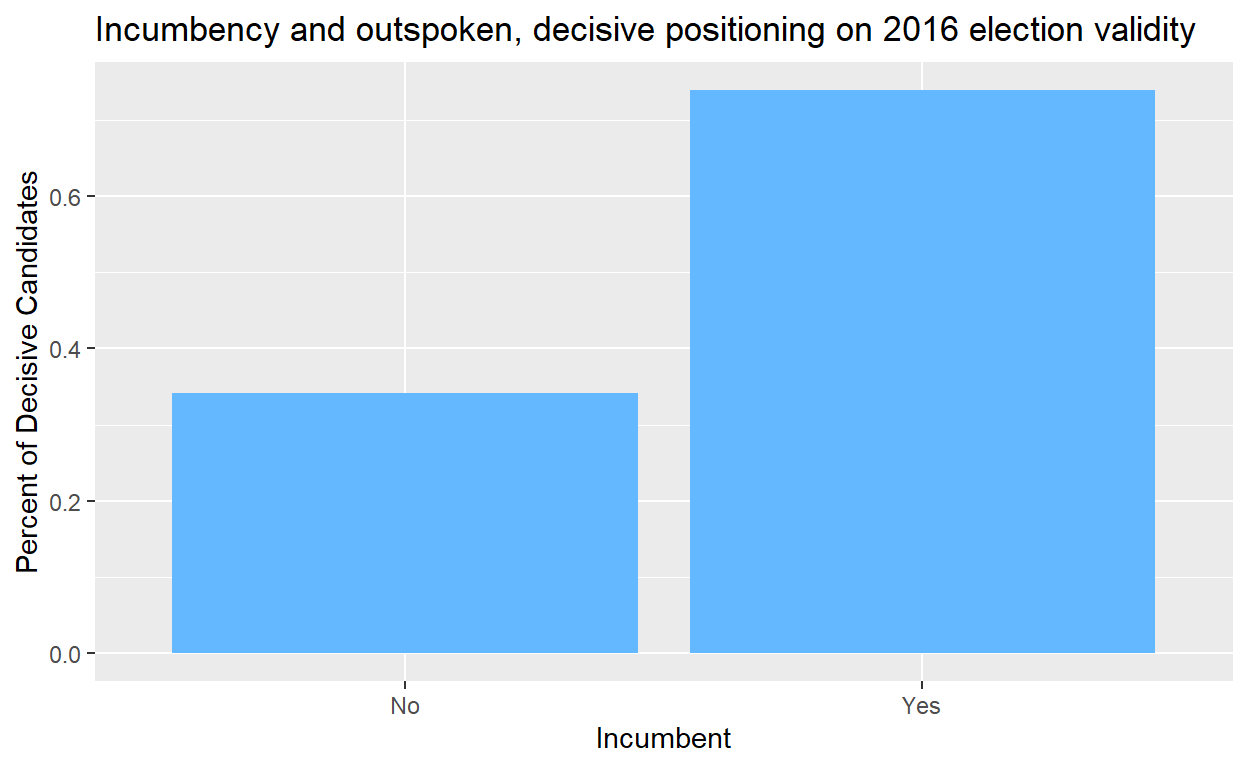
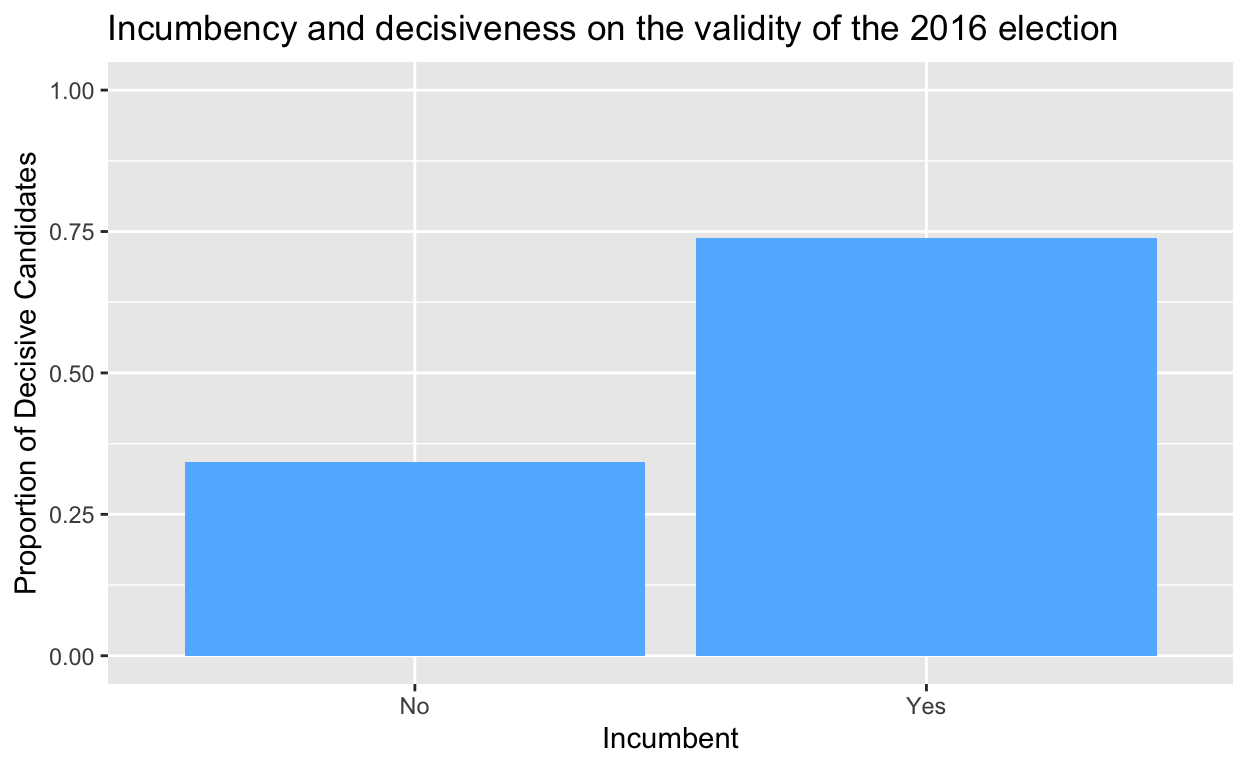
knitted

diff --git a/index.html b/index.html
@@ -115,7 +115,7 @@ code span.wa { color: #5e5e5e; font-style: italic; } /* Warning */
   <!--/radix_placeholder_rmarkdown_metadata-->
   
   <script type="text/json" id="radix-resource-manifest">
-  {"type":"character","attributes":{},"value":["fivethirtyeight_election_deniers.csv","index_files/anchor-4.2.2/anchor.min.js","index_files/bowser-1.9.3/bowser.min.js","index_files/distill-2.2.21/template.v2.js","index_files/figure-html5/unnamed-chunk-1-1.png","index_files/header-attrs-2.17/header-attrs.js","index_files/header-attrs-2.24/header-attrs.js","index_files/jquery-3.6.0/jquery-3.6.0.js","index_files/jquery-3.6.0/jquery-3.6.0.min.js","index_files/jquery-3.6.0/jquery-3.6.0.min.map","index_files/popper-2.6.0/popper.min.js","index_files/tippy-6.2.7/tippy-bundle.umd.min.js","index_files/tippy-6.2.7/tippy-light-border.css","index_files/tippy-6.2.7/tippy.css","index_files/tippy-6.2.7/tippy.umd.min.js","index_files/webcomponents-2.0.0/webcomponents.js"]}
+  {"type":"character","attributes":{},"value":["fivethirtyeight_election_deniers.csv","index_files/anchor-4.2.2/anchor.min.js","index_files/bowser-1.9.3/bowser.min.js","index_files/distill-2.2.21/template.v2.js","index_files/figure-html5/unnamed-chunk-1-1.png","index_files/figure-html5/unnamed-chunk-4-1.png","index_files/header-attrs-2.17/header-attrs.js","index_files/header-attrs-2.24/header-attrs.js","index_files/jquery-3.6.0/jquery-3.6.0.js","index_files/jquery-3.6.0/jquery-3.6.0.min.js","index_files/jquery-3.6.0/jquery-3.6.0.min.map","index_files/popper-2.6.0/popper.min.js","index_files/tippy-6.2.7/tippy-bundle.umd.min.js","index_files/tippy-6.2.7/tippy-light-border.css","index_files/tippy-6.2.7/tippy.css","index_files/tippy-6.2.7/tippy.umd.min.js","index_files/webcomponents-2.0.0/webcomponents.js"]}
   </script>
   <!--radix_placeholder_navigation_in_header-->
   <!--/radix_placeholder_navigation_in_header-->
@@ -227,9 +227,21 @@ code span.wa { color: #5e5e5e; font-style: italic; } /* Warning */
     display: none !important;
   }
 
+  hr.section-separator {
+    border: none;
+    border-top: 1px solid rgba(0, 0, 0, 0.1);
+    margin: 0px;
+  }
+
+
+  d-byline {
+    border-top: none;
+  }
+
   d-article {
     padding-top: 2.5rem;
     padding-bottom: 30px;
+    border-top: none;
   }
 
   d-appendix {
@@ -324,6 +336,11 @@ code span.wa { color: #5e5e5e; font-style: italic; } /* Warning */
   d-article div.sourceCode pre {
     padding-left: 18px;
     font-size: 14px;
+  }
+
+  /* tweak for Pandoc numbered line within distill */
+  d-article pre.numberSource code > span {
+      left: -2em;
   }
 
   d-article pre {
@@ -1085,6 +1102,12 @@ code span.wa { color: #5e5e5e; font-style: italic; } /* Warning */
     // create d-title
     $('.d-title').changeElementType('d-title');
 
+    // separator
+    var separator = '<hr class="section-separator" style="clear: both"/>';
+    // prepend separator above appendix
+    $('.d-byline').before(separator);
+    $('.d-article').before(separator);
+
     // create d-byline
     var byline = $('<d-byline></d-byline>');
     $('.d-byline').replaceWith(byline);
@@ -1162,8 +1185,9 @@ code span.wa { color: #5e5e5e; font-style: italic; } /* Warning */
     $('.distill-force-highlighting-css').parent().remove();
 
     // remove empty line numbers inserted by pandoc when using a
-    // custom syntax highlighting theme
-    $('code.sourceCode a:empty').remove();
+    // custom syntax highlighting theme, except when numbering line
+    // in code chunk
+    $('pre:not(.numberLines) code.sourceCode a:empty').remove();
 
     // load distill framework
     load_distill_framework();
@@ -1189,12 +1213,13 @@ code span.wa { color: #5e5e5e; font-style: italic; } /* Warning */
       // add orcid ids
       $('.authors-affiliations').find('.author').each(function(i, el) {
         var orcid_id = front_matter.authors[i].orcidID;
+        var author_name = front_matter.authors[i].author
         if (orcid_id) {
           var a = $('<a></a>');
           a.attr('href', 'https://orcid.org/' + orcid_id);
           var img = $('<img></img>');
           img.addClass('orcid-id');
-          img.attr('alt', 'ORCID ID');
+          img.attr('alt', author_name ? 'ORCID ID for ' + author_name : 'ORCID ID');
[1 lines of base64/hex data omitted]
           a.append(img);
           $(this).append(a);
@@ -1472,7 +1497,7 @@ code span.wa { color: #5e5e5e; font-style: italic; } /* Warning */
   </script>
 
   <!--/radix_placeholder_distill-->
-  <script src="index_files/header-attrs-2.24/header-attrs.js"></script>
+  <script src="index_files/header-attrs-2.25/header-attrs.js"></script>
   <script src="index_files/jquery-3.6.0/jquery-3.6.0.min.js"></script>
   <script src="index_files/popper-2.6.0/popper.min.js"></script>
   <link href="index_files/tippy-6.2.7/tippy.css" rel="stylesheet" />
@@ -1504,6 +1529,7 @@ code span.wa { color: #5e5e5e; font-style: italic; } /* Warning */
 
 <div class="d-title">
 <h1>Gov 50 Final Project</h1>
+
 <!--radix_placeholder_categories-->
 <!--/radix_placeholder_categories-->
 <p>My final project</p>
@@ -1521,7 +1547,7 @@ code span.wa { color: #5e5e5e; font-style: italic; } /* Warning */
 <p>I am interested in exploring data related to repression indexes in Singapore. I am taking a class on authoritarianism where I am tasked with conducting a study on Lee Kuan Yew’s dictatorship and repression styles. There are several ways to measure repression, such as V-Dem, Polity, or via a binary scale. I would like to compile this data and display it visually using R.</p>
 <h2 id="proposal">Proposal</h2>
 <p>Does incumbency impact a republican representative’s likelihood of outwardly denying the 2020 Election results? In this study, I plan determine if there is a correlation between the incumbency of congressional republican representatives and if they deny the 2020 election. I hypothesis that being an incumbent increases the candidates feelings of job security, and are thus more likely to express potentially polarizing view points, such as denying the election. Thus, I expect to find a positive correlation between incumbency on the congressional candidate and election denial.</p>
-<p>To evaluate this data, I plan to filter the data by office to ensure that I am only evaluating candidates for the House of Representatives. I will also filter by party because only republican candidates denied the election. Eliminating democrats from this study allows me to observe a more specific and relevant portion of the data. I will then ensure that the numbers of representatives from each state are proportionately represented. Lastly, I plot the data to determine if the proportion of incumbents who deny the election is greater than the proportion of non-incumbents who don’t outwardly deny the election.</p>
+<p>To begin this project, I plan to filter the data by office to ensure that I am only evaluating candidates for the House of Representatives. I will also filter by party to ensure that I am only evaluating republican candidates. Eliminating democrats from this study allows me to observe a more specific and relevant portion of the data. Lastly, I plot the data to determine if the proportion of incumbents who deny the election is greater than the proportion of non-incumbents who don’t outwardly deny the election.</p>
 <div class="layout-chunk" data-layout="l-body">
 <div class="sourceCode">
 <pre class="sourceCode r"><code class="sourceCode r"><span><span class='kw'><a href='https://rdrr.io/r/base/library.html'>library</a></span><span class='op'>(</span><span class='va'><a href='https://ggplot2.tidyverse.org'>ggplot2</a></span><span class='op'>)</span></span>
@@ -1540,19 +1566,19 @@ code span.wa { color: #5e5e5e; font-style: italic; } /* Warning */
 <span></span>
 <span><span class='va'>e3</span> <span class='op'>&lt;-</span> <span class='va'>e2</span><span class='op'>|&gt;</span>  </span>
 <span>  <span class='fu'><a href='https://dplyr.tidyverse.org/reference/group_by.html'>group_by</a></span><span class='op'>(</span><span class='va'>Incumbent</span><span class='op'>)</span> <span class='op'>|&gt;</span></span>
-<span>  <span class='fu'><a href='https://dplyr.tidyverse.org/reference/summarise.html'>summarize</a></span><span class='op'>(</span>mean <span class='op'>=</span> <span class='fu'><a href='https://rdrr.io/r/base/mean.html'>mean</a></span><span class='op'>(</span><span class='va'>definitive_stance</span><span class='op'>)</span><span class='op'>)</span> <span class='op'>|&gt;</span></span>
-<span>  <span class='fu'><a href='https://ggplot2.tidyverse.org/reference/ggplot.html'>ggplot</a></span><span class='op'>(</span><span class='fu'><a href='https://ggplot2.tidyverse.org/reference/aes.html'>aes</a></span><span class='op'>(</span>x <span class='op'>=</span> <span class='va'>Incumbent</span>, y <span class='op'>=</span> <span class='va'>mean</span><span class='op'>)</span><span class='op'>)</span> <span class='op'>+</span> <span class='fu'><a href='https://ggplot2.tidyverse.org/reference/geom_bar.html'>geom_col</a></span><span class='op'>(</span>ylim<span class='op'>=</span><span class='fu'><a href='https://rdrr.io/r/base/c.html'>c</a></span><span class='op'>(</span><span class='fl'>0</span>,<span class='fl'>2</span><span class='op'>)</span>, fill <span class='op'>=</span> <span class='st'>"steelblue1"</span><span class='op'>)</span> <span class='op'>+</span> <span class='fu'><a href='https://ggplot2.tidyverse.org/reference/labs.html'>labs</a></span><span class='op'>(</span></span>
+<span>  <span class='fu'><a href='https://dplyr.tidyverse.org/reference/summarise.html'>summarize</a></span><span class='op'>(</span>stance_mean <span class='op'>=</span> <span class='fu'><a href='https://rdrr.io/r/base/mean.html'>mean</a></span><span class='op'>(</span><span class='va'>definitive_stance</span><span class='op'>)</span><span class='op'>)</span> <span class='op'>|&gt;</span></span>
+<span>  <span class='fu'><a href='https://ggplot2.tidyverse.org/reference/ggplot.html'>ggplot</a></span><span class='op'>(</span><span class='fu'><a href='https://ggplot2.tidyverse.org/reference/aes.html'>aes</a></span><span class='op'>(</span>x <span class='op'>=</span> <span class='va'>Incumbent</span>, y <span class='op'>=</span> <span class='va'>stance_mean</span><span class='op'>)</span><span class='op'>)</span> <span class='op'>+</span> <span class='fu'><a href='https://ggplot2.tidyverse.org/reference/geom_bar.html'>geom_col</a></span><span class='op'>(</span>fill <span class='op'>=</span> <span class='st'>"steelblue1"</span><span class='op'>)</span> <span class='op'>+</span> <span class='fu'><a href='https://ggplot2.tidyverse.org/reference/labs.html'>labs</a></span><span class='op'>(</span></span>
 <span>    x <span class='op'>=</span> <span class='st'>"Incumbent"</span>,</span>
-<span>    y <span class='op'>=</span> <span class='st'>"Percent of Decisive Candidates"</span>,</span>
-<span>    title <span class='op'>=</span> <span class='st'>"Incumbency and outspoken, decisive positioning on 2016 election validity"</span></span>
-<span>  <span class='op'>)</span></span>
+<span>    y <span class='op'>=</span> <span class='st'>"Proportion of Decisive Candidates"</span>,</span>
+<span>    title <span class='op'>=</span> <span class='st'>"Incumbency and decisiveness on the validity of the 2016 election"</span></span>
+<span>  <span class='op'>)</span> <span class='op'>+</span> <span class='fu'><a href='https://ggplot2.tidyverse.org/reference/lims.html'>ylim</a></span><span class='op'>(</span><span class='fl'>0</span>,<span class='fl'>1</span><span class='op'>)</span></span>
 <span></span>
 <span><span class='va'>e3</span></span></code></pre>
 </div>
 <p><img src="index_files/figure-html5/unnamed-chunk-1-1.png" width="624" /></p>
 </div>
 <h2 id="graph-explanation-and-analysis">Graph Explanation and Analysis</h2>
-<p>The above graph shows the relationship between incumbency and likelihood that a representative from the corresponding group had outwardly decisive opinions regarding the validity of the 2016 Election. My hypothesis theorizes that incumbents benefit from a greater sense of job security, which allows them to be outspoken on contentious political topics. Candidates who were not running as an incumbent, did not enjoy such job security, and likely presented less polarizing viewpoints to win the election.</p>
+<p>The above graph shows the relationship between incumbency and likelihood that a congressional representative had outwardly decisive opinions regarding the validity of the 2016 Election. My hypothesis theorizes that incumbents benefit from a greater sense of job security, which allows them to be outspoken on contentious political topics. Candidates who were not running as an incumbent did not enjoy such job security, and likely presented less polarizing viewpoints to win the election.</p>
 <p>The original data collected six “Stances” that each candidate submitted to various news sources. The “Stances” included: “Fully denied”, “Raised questions”, “Accepted with reservations”, “Fully accepted”, “No comment” and “Avoided answering”. I coded these six responses into two categories: decisive and non-decisive. The responses “Fully denied” and “Fully accepted” were coded as decisive, while the other four responses were coded as indecisive.</p>
 <p>Decisiveness was assigned code equal to 1, which indecisive was assigned code equal to 0. To create the plot, I grouped the data by Incumbency and definitive_stance, which contained by 1/0 code, and plotted the mean of the sum of the definitive_stance column on the y access for each incumbent group. The incumbents did appear to have a greater proportion of candidates who had definitive opinions regarding the 2016 election, as I hypothesized. However, confounding variables such as geography and the uncontrolled sample size inhibit concluding causality.</p>
 <div class="layout-chunk" data-layout="l-body">
@@ -1563,7 +1589,80 @@ code span.wa { color: #5e5e5e; font-style: italic; } /* Warning */
 [3] &quot;Accepted with reservations&quot; &quot;Fully accepted&quot;            
 [5] &quot;No comment&quot;                 &quot;Avoided answering&quot;         </code></pre>
 </div>
-<div class="sourceCode" id="cb2"><pre class="sourceCode r distill-force-highlighting-css"><code class="sourceCode r"></code></pre></div>
+#For Milestone 4
+<div class="layout-chunk" data-layout="l-body">
+<div class="sourceCode">
+<pre class="sourceCode r"><code class="sourceCode r"><span><span class='va'>diff_in_means</span> <span class='op'>&lt;-</span> <span class='va'>e2</span><span class='op'>|&gt;</span> </span>
+<span>  <span class='fu'><a href='https://dplyr.tidyverse.org/reference/group_by.html'>group_by</a></span><span class='op'>(</span><span class='va'>Incumbent</span><span class='op'>)</span><span class='op'>|&gt;</span> </span>
+<span>  <span class='fu'><a href='https://dplyr.tidyverse.org/reference/summarise.html'>summarize</a></span><span class='op'>(</span>stance_mean <span class='op'>=</span> <span class='fu'><a href='https://rdrr.io/r/base/mean.html'>mean</a></span><span class='op'>(</span><span class='va'>definitive_stance</span><span class='op'>)</span><span class='op'>)</span> <span class='op'>|&gt;</span></span>
+<span>  <span class='fu'><a href='https://tidyr.tidyverse.org/reference/pivot_wider.html'>pivot_wider</a></span><span class='op'>(</span>names_from <span class='op'>=</span> <span class='va'>Incumbent</span>,</span>
+<span>              values_from <span class='op'>=</span> <span class='va'>stance_mean</span><span class='op'>)</span><span class='op'>|&gt;</span> </span>
+<span>   <span class='fu'><a href='https://dplyr.tidyverse.org/reference/mutate.html'>mutate</a></span><span class='op'>(</span>ATE<span class='op'>=</span><span class='va'>`Yes`</span><span class='op'>-</span><span class='va'>`No`</span><span class='op'>)</span> </span>
+<span></span>
+<span><span class='va'>diff_in_means</span></span></code></pre>
+</div>
+<pre><code># A tibble: 1 × 3
+     No   Yes   ATE
+  &lt;dbl&gt; &lt;dbl&gt; &lt;dbl&gt;
+1 0.342 0.739 0.397</code></pre>
+</div>
+<div class="layout-chunk" data-layout="l-body">
+<div class="sourceCode">
+<pre class="sourceCode r"><code class="sourceCode r"><span><span class='kw'><a href='https://rdrr.io/r/base/library.html'>library</a></span><span class='op'>(</span><span class='va'><a href='https://github.com/tidymodels/infer'>infer</a></span><span class='op'>)</span> </span>
+<span><span class='va'>dim_boots</span> <span class='op'>&lt;-</span> <span class='va'>e2</span><span class='op'>|&gt;</span> </span>
+<span>  <span class='fu'><a href='https://infer.tidymodels.org/reference/rep_sample_n.html'>rep_slice_sample</a></span><span class='op'>(</span>prop<span class='op'>=</span><span class='fl'>1</span>, replace<span class='op'>=</span><span class='cn'>TRUE</span>, reps<span class='op'>=</span><span class='fl'>1000</span><span class='op'>)</span><span class='op'>|&gt;</span> </span>
+<span>  <span class='fu'><a href='https://dplyr.tidyverse.org/reference/group_by.html'>group_by</a></span><span class='op'>(</span><span class='va'>replicate</span>, <span class='va'>Incumbent</span><span class='op'>)</span><span class='op'>|&gt;</span> </span>
+<span>  <span class='fu'><a href='https://dplyr.tidyverse.org/reference/summarise.html'>summarize</a></span><span class='op'>(</span>stance_mean <span class='op'>=</span> <span class='fu'><a href='https://rdrr.io/r/base/mean.html'>mean</a></span><span class='op'>(</span><span class='va'>definitive_stance</span><span class='op'>)</span><span class='op'>)</span> <span class='op'>|&gt;</span></span>
+<span>  <span class='fu'><a href='https://tidyr.tidyverse.org/reference/pivot_wider.html'>pivot_wider</a></span><span class='op'>(</span>names_from <span class='op'>=</span> <span class='va'>Incumbent</span>,</span>
+<span>              values_from <span class='op'>=</span> <span class='va'>stance_mean</span><span class='op'>)</span><span class='op'>|&gt;</span> </span>
+<span>  <span class='fu'><a href='https://dplyr.tidyverse.org/reference/mutate.html'>mutate</a></span><span class='op'>(</span>ATE<span class='op'>=</span><span class='va'>`Yes`</span><span class='op'>-</span><span class='va'>`No`</span><span class='op'>)</span> </span>
+<span><span class='va'>dim_boots</span></span></code></pre>
+</div>
+<pre><code># A tibble: 1,000 × 4
+# Groups:   replicate [1,000]
+   replicate    No   Yes   ATE
+       &lt;int&gt; &lt;dbl&gt; &lt;dbl&gt; &lt;dbl&gt;
+ 1         1 0.368 0.699 0.332
+ 2         2 0.305 0.762 0.458
+ 3         3 0.323 0.705 0.382
+ 4         4 0.329 0.725 0.395
+ 5         5 0.332 0.781 0.449
+ 6         6 0.360 0.734 0.374
+ 7         7 0.295 0.763 0.468
+ 8         8 0.345 0.781 0.436
+ 9         9 0.314 0.757 0.444
+10        10 0.385 0.8   0.415
+# ℹ 990 more rows</code></pre>
+<div class="sourceCode">
+<pre class="sourceCode r"><code class="sourceCode r"><span><span class='va'>dim_ci_95</span> <span class='op'>&lt;-</span> <span class='va'>dim_boots</span><span class='op'>|&gt;</span> </span>
+<span>  <span class='fu'><a href='https://dplyr.tidyverse.org/reference/select.html'>select</a></span><span class='op'>(</span><span class='va'>replicate</span>,<span class='va'>ATE</span><span class='op'>)</span><span class='op'>|&gt;</span> </span>
+<span>  <span class='fu'><a href='https://infer.tidymodels.org/reference/get_confidence_interval.html'>get_confidence_interval</a></span><span class='op'>(</span>level<span class='op'>=</span><span class='fl'>0.95</span>,type<span class='op'>=</span><span class='st'>"percentile"</span><span class='op'>)</span> </span>
+<span></span>
+<span><span class='va'>dim_ci_95</span></span></code></pre>
+</div>
+<pre><code># A tibble: 1 × 2
+  lower_ci upper_ci
+     &lt;dbl&gt;    &lt;dbl&gt;
+1    0.305    0.484</code></pre>
+<div class="sourceCode">
+<pre class="sourceCode r"><code class="sourceCode r"><span><span class='va'>dim_boots</span><span class='op'>|&gt;</span> </span>
+<span>  <span class='fu'><a href='https://ggplot2.tidyverse.org/reference/ggplot.html'>ggplot</a></span><span class='op'>(</span><span class='fu'><a href='https://ggplot2.tidyverse.org/reference/aes.html'>aes</a></span><span class='op'>(</span>x<span class='op'>=</span><span class='va'>ATE</span><span class='op'>)</span><span class='op'>)</span><span class='op'>+</span> <span class='fu'><a href='https://ggplot2.tidyverse.org/reference/geom_histogram.html'>geom_histogram</a></span><span class='op'>(</span><span class='fu'><a href='https://ggplot2.tidyverse.org/reference/aes.html'>aes</a></span><span class='op'>(</span>y<span class='op'>=</span><span class='fu'><a href='https://ggplot2.tidyverse.org/reference/aes_eval.html'>after_stat</a></span><span class='op'>(</span><span class='va'>density</span><span class='op'>)</span><span class='op'>)</span>,binwidth<span class='op'>=</span><span class='fl'>0.005</span><span class='op'>)</span> <span class='op'>+</span> </span>
+<span>  <span class='fu'><a href='https://ggplot2.tidyverse.org/reference/geom_abline.html'>geom_vline</a></span><span class='op'>(</span><span class='fu'><a href='https://ggplot2.tidyverse.org/reference/aes.html'>aes</a></span><span class='op'>(</span>xintercept <span class='op'>=</span> <span class='va'>dim_ci_95</span><span class='op'>$</span><span class='va'>lower_ci</span><span class='op'>)</span>, color <span class='op'>=</span> <span class='st'>"steelblue1"</span><span class='op'>)</span> <span class='op'>+</span></span>
+<span>  <span class='fu'><a href='https://ggplot2.tidyverse.org/reference/geom_abline.html'>geom_vline</a></span><span class='op'>(</span><span class='fu'><a href='https://ggplot2.tidyverse.org/reference/aes.html'>aes</a></span><span class='op'>(</span>xintercept <span class='op'>=</span> <span class='va'>dim_ci_95</span><span class='op'>$</span><span class='va'>upper_ci</span><span class='op'>)</span>, color <span class='op'>=</span> <span class='st'>"steelblue1"</span><span class='op'>)</span> <span class='op'>+</span></span>
+<span>  <span class='fu'><a href='https://ggplot2.tidyverse.org/reference/geom_abline.html'>geom_vline</a></span><span class='op'>(</span><span class='fu'><a href='https://ggplot2.tidyverse.org/reference/aes.html'>aes</a></span><span class='op'>(</span>xintercept <span class='op'>=</span> <span class='fu'><a href='https://rdrr.io/r/base/mean.html'>mean</a></span><span class='op'>(</span><span class='va'>ATE</span><span class='op'>)</span><span class='op'>)</span>, color <span class='op'>=</span><span class='st'>"magenta"</span><span class='op'>)</span> <span class='op'>+</span></span>
+<span>  <span class='fu'><a href='https://ggplot2.tidyverse.org/reference/labs.html'>labs</a></span><span class='op'>(</span></span>
+<span>    x <span class='op'>=</span> <span class='st'>"Average Treatment Effect"</span>,</span>
+<span>    y <span class='op'>=</span> <span class='st'>"Density"</span>,</span>
+<span>    title <span class='op'>=</span> <span class='st'>"Sampling Distribution for the Average Treatment Effect of Incumbency on Republican Representatives' likelihood to be decisive about the Legitimacy of the 2020 Election"</span></span>
+<span>  <span class='op'>)</span></span></code></pre>
+</div>
+<p><img src="index_files/figure-html5/unnamed-chunk-4-1.png" width="624" /></p>
+</div>
+<h2 id="analysis-of-the-data">Analysis of the data</h2>
+<p>The above graph shows the sampling distribution for the Average Treatment Effect of Incumbency on Republican Representatives’ likelihood to be decisive about the Legitimacy of the 2020 Election. The histograph depicts the 1000 bootstrap samples that were pulled with replacement from the original sample.</p>
+<p>The left-most vertical blue line that intersects the x-axis at x=0.3104219 is the lower-confidence interval for 95% confidence. The right-most vertical blue line intersects the x-axis at 0.4901468 and represents the upper-confidence interval for 95% confidence. Together, the vertical lines indicate that 95% of the data can be found within the range bordered by the two vertical lines. The magenta line intersects the x-axis at the mean of all samples’ average treatment effects.</p>
+<p>What should be noticed about this sampling distribution is that the confidence interval does not contain zero, meaning that the average treatment effect for 95% of the data shows a positive difference between incumbency variables and the likelihood for a republican representative to be decisive on their opinion regarding the validity of the 2020 election. Thus, the sampling distribution of the average treatment effects prove statistical signficance between the two variables, though it is important to note that important confounders, such as geography have not been considered.</p>
+<div class="sourceCode" id="cb5"><pre class="sourceCode r distill-force-highlighting-css"><code class="sourceCode r"></code></pre></div>
 <!--radix_placeholder_article_footer-->
 <!--/radix_placeholder_article_footer-->
 </div>

diff --git a/index_files/header-attrs-2.25/header-attrs.js b/index_files/header-attrs-2.25/header-attrs.js
@@ -1,0 +1,12 @@
+// Pandoc 2.9 adds attributes on both header and div. We remove the former (to
+// be compatible with the behavior of Pandoc < 2.8).
+document.addEventListener('DOMContentLoaded', function(e) {
+  var hs = document.querySelectorAll("div.section[class*='level'] > :first-child");
+  var i, h, a;
+  for (i = 0; i < hs.length; i++) {
+    h = hs[i];
+    if (!/^h[1-6]$/i.test(h.tagName)) continue;  // it should be a header h1-h6
+    a = h.attributes;
+    while (a.length > 0) h.removeAttribute(a[0].name);
+  }
+});
